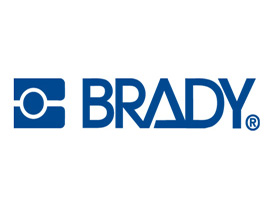
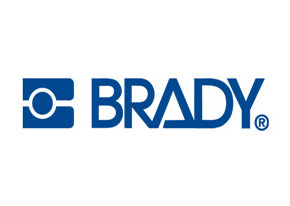
edit css

Changed region(s): [[0.293, 0.3786, 0.967, 0.6408], [0.0293, 0.3786, 0.2637, 0.6408]]

diff --git a/Site/Production_Site/css/style.css b/Site/Production_Site/css/style.css
@@ -489,4 +489,7 @@ label.error{
 #branding{
 	margin-top:30px;
 }
+#branding img{
+	margin-left: 10px;
+}
 
